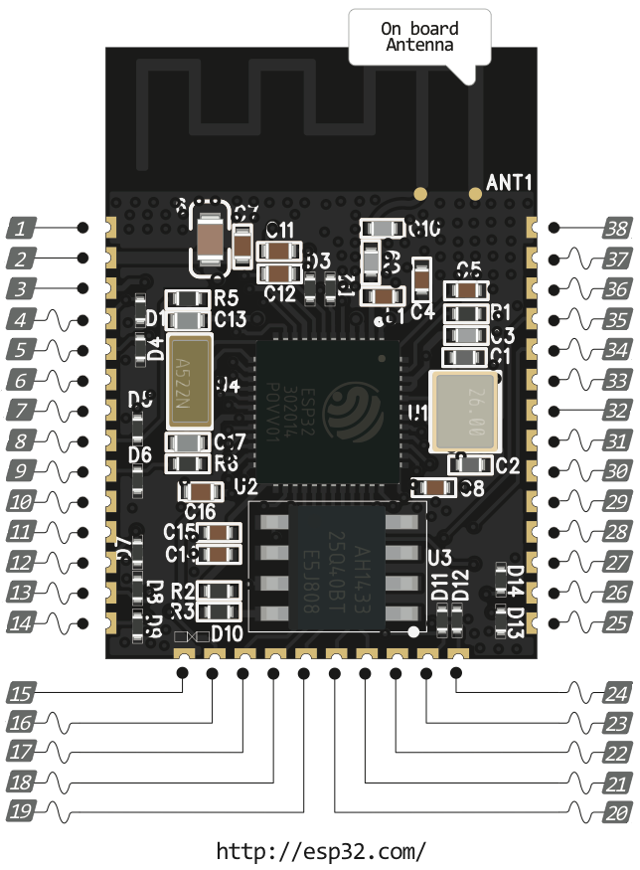
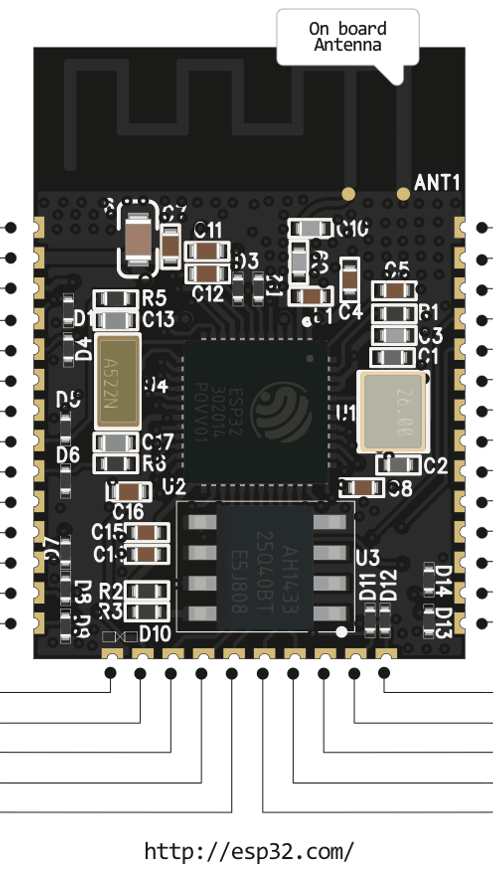
Pin naming comes from the module's json.

diff --git a/index.html b/index.html
@@ -58,21 +58,24 @@
 				</div>
 				<div class="col-sm-9" id="module">
 				
-					<img src="{{active_module.image}}" class="module-image"></img>
+					<img src="{{active_module.image}}" class="module-image" style="width: {{active_module.width}}%;"></img>
 					
-					<div ng-repeat="pin in active_module.pins" class="label-pin-{{pin.side}}" style="top: {{pin.position}}%;">
-						<div ng-if="pin.name" class="label" style="background: {{pin.color}};">
+					<div ng-repeat="pin in active_module.pins" class="label-pin-{{pin.side}}" style="top: {{pin.position}}%; left: {{(pin.side == 'left' ? 0 : (100 - ((100 - active_module.width) / 2)))}}%; width: {{((100 - active_module.width) / 2)}}%;">
+					
+						<div ng-if="pin.side == 'right'" class="badge" style="background-color: {{pin.color}};">
 							{{pin.name}}
 						</div>
 						
-						<div ng-if="!pin.name"> 
-							<div ng-repeat="peripheral in core.peripherals" style="display:inline-block;">
-								<div ng-repeat="peripinname in peripheral.modes[peripheral.active_mode]">
-									<span ng-if="(peripheral.active_pins[peripinname] == pin.number) && (peripheral.active_mode != 'OFF')" class="label" style="background: {{peripheral.color}};">
-										{{peripinname}}
-									</span>
-								</div>
+						<div ng-repeat="peripheral in core.peripherals" style="display:inline-block;">
+							<div ng-repeat="peripinname in peripheral.modes[peripheral.active_mode]">
+								<span ng-if="(peripheral.active_pins[peripinname] == pin.number) && (peripheral.active_mode != 'OFF')" class="label" style="background: {{peripheral.color}};">
+									{{peripinname}}
+								</span>
 							</div>
+						</div>
+						
+						<div ng-if="pin.side == 'left'" class="badge" style="background-color: {{pin.color}};">
+							{{pin.name}}
 						</div>
 					</div>
 				

diff --git a/app/modules.js b/app/modules.js
@@ -5,16 +5,12 @@ define(function (require) {
 	generatePinMap = function ( module ) {
 		
 		module.pin_map = new Array(module.pins.length);
-
-		var i = 1;
 		
 		module.pins.forEach(function( pin ) {
 
 			if (pin.number) {
-				module.pin_map[pin.number] = i;
+				module.pin_map[pin.number] = pin.name;
 			}
-		
-			i++;
 		});
 	}
 	

diff --git a/css/main.css b/css/main.css
@@ -22,7 +22,6 @@
 }
 
 .module-image {
-	width: 50%;
 	margin: auto;
 	display: block;
 }
@@ -34,16 +33,12 @@
 .label-pin-left {
 	text-align: right;
 	position: absolute;
-	width: 25%;
-	left: 0%;
 	cursor: default;
 }
 
 .label-pin-right {
 	text-align: left;
 	position: absolute;
-	width: 25%;
-	left: 75%;
 	cursor: default;
 }
 

diff --git a/config.js b/config.js
@@ -1,4 +1,5 @@
 requirejs.config({
+	urlArgs: "bust=" + (new Date()).getTime(),
 	baseUrl: 'lib',
     paths: {
     	'jquery': 'jquery-3.1.1.min',
